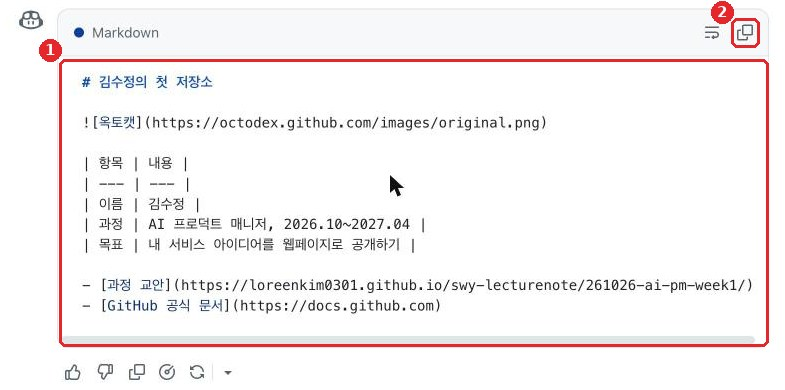
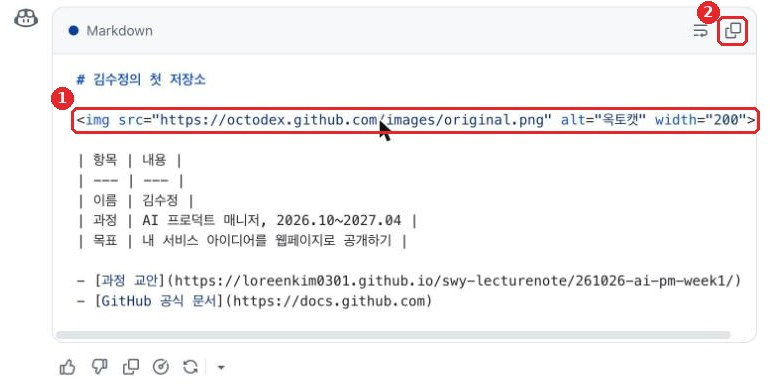
DAY 3 실습 4: 이미지를 img 태그 가로 200px로 넣도록 프롬프트·캡처 교체, 크기 조절 안내 정리
Claude-Session: https://claude.ai/code/session_01ARNeounN5pE9p1UyA8mCLN

Changed region(s): [[0.0, 0.0, 0.9974, 0.9039], [0.0623, 0.9351, 0.3117, 0.9974], [0.4987, 0.4675, 0.5299, 0.4987]]

diff --git a/261026-ai-pm-week1/d3-github-agile.html b/261026-ai-pm-week1/d3-github-agile.html
@@ -614,29 +614,30 @@ aside nav a.active{border-left-color:var(--blue)}
 
 <p><b>실습 4. Copilot으로 README를 이미지·표·링크로 꾸미기</b></p>
 <p>GitHub에는 AI 도우미 <b>GitHub Copilot</b>이 들어 있어요. 오른쪽 위 Copilot 아이콘이나 <a href="https://github.com/copilot" target="_blank" rel="noopener">github.com/copilot</a>에서 채팅으로 쓸 수 있어요. 강사 계정은 무료 요금제인 <b>Copilot Free</b>로 이 실습을 했어요. 처음 쓰는 계정은 시작 안내 화면이 먼저 나올 수 있으니 화면 안내를 따라요.</p>
-<div class="copybox"><div class="copyhead"><span>Copilot 프롬프트 · 복사해서 [ ]만 바꿔 쓰세요</span><button type="button">복사</button></div><pre>내 GitHub 저장소의 README.md를 꾸며 줘. 마크다운으로만 써 줘.
+<div class="copybox"><div class="copyhead"><span>Copilot 프롬프트 · 복사해서 [ ]만 바꿔 쓰세요</span><button type="button">복사</button></div><pre>내 GitHub 저장소의 README.md를 꾸며 줘. 마크다운으로 써 줘.
 ① 맨 위 제목: [내 이름]의 첫 저장소
-② 이미지 1개: https://octodex.github.com/images/original.png (대체 글자: 옥토캣)
+② 이미지 1개: https://octodex.github.com/images/original.png (대체 글자: 옥토캣). 화면에 너무 크게 보이지 않게 &lt;img&gt; 태그로 가로 200px로 넣어 줘.
 ③ 표 1개: 항목·내용 2열로 이름([내 이름]), 과정(AI 프로덕트 매니저, 2026.10~2027.04), 목표([내 목표 한 문장])
 ④ 링크 2개: 과정 교안 https://loreenkim0301.github.io/swy-lecturenote/261026-ai-pm-week1/ , GitHub 공식 문서 https://docs.github.com
 ⑤ 설명 없이 README 전체 내용만 코드 블록 하나로 줘.</pre></div>
 <div class="procedure">
-<div><a href="https://github.com/copilot" target="_blank" rel="noopener">github.com/copilot</a>을 열고, 위 프롬프트를 [ ]만 바꿔 붙여 넣어요. 아래 모드가 <b>[Ask]</b>(질문하기)인지 확인하고 보내요.<figure class="sample-shot"><img alt="Copilot 채팅 입력창에 README 꾸미기 프롬프트를 넣은 화면. 아래 Ask 모드와 보내기 버튼" height="287" loading="lazy" src="./images/d3-cp-prompt.jpg" width="795"/><figcaption>① 프롬프트 입력 ② 모드가 [Ask]인지 확인 ③ 보내기 (2026년 10월 28일 강사 계정, Copilot Free)</figcaption></figure></div>
-<div>Copilot이 마크다운 코드 블록을 답으로 줘요. 오른쪽 위 <b>복사 버튼</b>으로 통째로 복사해요.<figure class="sample-shot"><img alt="Copilot 답변. Markdown 코드 블록에 제목, 이미지, 표, 링크 마크다운" height="390" loading="lazy" src="./images/d3-cp-answer.jpg" width="785"/><figcaption>① Copilot이 만든 README 마크다운 ② 복사 버튼. 프롬프트의 ①~④가 모두 들어 있는지 먼저 눈으로 확인해요 (2026년 10월 28일 강사 계정 실제 답변)</figcaption></figure></div>
-<div>내 저장소의 README.md 편집 화면(연필 버튼)을 열고, 실습 3 내용을 모두 지운 뒤 붙여 넣어요. 그다음 [Preview] 탭을 눌러요.<figure class="sample-shot"><img alt="README 편집 화면에 Copilot 답을 붙여 넣은 상태" height="380" loading="lazy" src="./images/d3-cp-paste.jpg" width="1115"/><figcaption>① 붙여 넣은 마크다운 ② [Preview] 탭 ③ 확인이 끝나면 [Commit changes...] (강사 교안 저장소 예시 화면, 2026년 10월 28일). 강사는 교안 저장소라 커밋하지 않고 미리보기만 했어요</figcaption></figure></div>
-<div>미리보기에서 이미지·표·링크가 모두 보이는지 확인해요.<figure class="sample-shot"><img alt="Preview 탭에서 제목 김수정의 첫 저장소와 옥토캣 이미지가 크게 보이는 화면" height="670" loading="lazy" src="./images/d3-cp-preview1.jpg" width="1115"/><figcaption>미리보기 위쪽: 제목과 이미지(옥토캣). 이미지는 원래 크기대로 크게 나와요 (강사 교안 저장소 예시 화면, 2026년 10월 28일)</figcaption></figure><figure class="sample-shot"><img alt="Preview 아래쪽. 항목 내용 표와 과정 교안, GitHub 공식 문서 링크" height="340" loading="lazy" src="./images/d3-cp-preview2.jpg" width="1115"/><figcaption>미리보기 아래쪽: ① 표 ② 링크 2개. 링크 글자를 눌러 주소가 맞게 열리는지도 확인해요 (강사 교안 저장소 예시 화면, 2026년 10월 28일)</figcaption></figure></div>
+<div><a href="https://github.com/copilot" target="_blank" rel="noopener">github.com/copilot</a>을 열고, 위 프롬프트를 [ ]만 바꿔 붙여 넣어요. 아래 모드가 <b>[Ask]</b>(질문하기)인지 확인하고 보내요.<figure class="sample-shot"><img alt="Copilot 채팅 입력창에 README 꾸미기 프롬프트를 넣은 화면. 이미지를 img 태그 가로 200px로 넣어 달라는 줄 강조, Ask 모드와 보내기 버튼" height="302" loading="lazy" src="./images/d3-cp-prompt.jpg" width="785"/><figcaption>① 이미지 크기를 정해 주는 줄: 정하지 않으면 이미지가 원래 크기(가로 896px)로 크게 나와요 ② 모드가 [Ask]인지 확인 ③ 보내기 (2026년 10월 28일 강사 계정, Copilot Free)</figcaption></figure></div>
+<div>Copilot이 마크다운 코드 블록을 답으로 줘요. 오른쪽 위 <b>복사 버튼</b>으로 통째로 복사해요.<figure class="sample-shot"><img alt="Copilot 답변. Markdown 코드 블록에 제목, img 태그 width 200, 표, 링크" height="385" loading="lazy" src="./images/d3-cp-answer.jpg" width="770"/><figcaption>① Copilot이 이미지를 &lt;img … width="200"&gt; 태그로 넣었어요 ② 복사 버튼. 프롬프트의 ①~④가 모두 들어 있는지 먼저 눈으로 확인해요 (2026년 10월 28일 강사 계정 실제 답변)</figcaption></figure></div>
+<div>내 저장소의 README.md 편집 화면(연필 버튼)을 열고, 실습 3 내용을 모두 지운 뒤 붙여 넣어요. 그다음 [Preview] 탭을 눌러요.<figure class="sample-shot"><img alt="README 편집 화면에 Copilot 답을 붙여 넣은 상태" height="375" loading="lazy" src="./images/d3-cp-paste.jpg" width="1110"/><figcaption>① 붙여 넣은 이미지 줄(width="200") ② [Preview] 탭 ③ 확인이 끝나면 [Commit changes...] (강사 교안 저장소 예시 화면, 2026년 10월 28일). 강사는 교안 저장소라 커밋하지 않고 미리보기만 했어요</figcaption></figure></div>
+<div>미리보기에서 이미지·표·링크가 모두 보이는지 확인해요.<figure class="sample-shot"><img alt="Preview 탭. 제목, 가로 200px 옥토캣 이미지, 항목 내용 표, 링크 2개가 한 화면에 보임" height="690" loading="lazy" src="./images/d3-cp-preview.jpg" width="1110"/><figcaption>미리보기: ① 가로 200px로 줄어든 이미지 ② 표 ③ 링크 2개가 한 화면에 들어와요. 링크 글자를 눌러 주소가 맞게 열리는지도 확인해요 (강사 교안 저장소 예시 화면, 2026년 10월 28일)</figcaption></figure></div>
 <div>커밋 메시지 <code class="inline">README를 Copilot으로 꾸미기: 이미지·표·링크</code>로 <code class="inline">main</code>에 바로 커밋해요. 커밋 창에 Copilot이 영어 메시지를 미리 채워 넣으면 지우고 바꿔 적어요.</div>
 </div>
 <h4>Copilot이 쓴 기호 읽기: 이미지·표·링크</h4>
 <div class="table-wrap"><table>
 <tr><th>쓰는 법</th><th>결과</th></tr>
 <tr><td><code class="inline">![대체 글자](이미지 주소)</code></td><td>이미지. 맨 앞 <b>!</b>가 있으면 이미지, 없으면 링크예요. 대체 글자는 이미지가 안 보일 때 대신 나와요.</td></tr>
+<tr><td><code class="inline">&lt;img src="이미지 주소" alt="대체 글자" width="200"&gt;</code></td><td>크기를 정한 이미지. 마크다운 <code class="inline">![]()</code>로는 크기를 정할 수 없어서, 크기를 정할 때는 이 HTML 태그를 써요. <code class="inline">width="200"</code>은 가로 200px이라는 뜻이에요. 이번 실습에서 Copilot이 쓴 방식이에요.</td></tr>
 <tr><td><code class="inline">[보일 글자](주소)</code></td><td>링크. 대괄호 글자가 화면에 보이고, 누르면 괄호 안 주소로 가요.</td></tr>
 <tr><td><code class="inline">| 항목 | 내용 |</code><br/><code class="inline">| --- | --- |</code><br/><code class="inline">| 이름 | 김수정 |</code></td><td>표. 첫 줄이 제목 칸, 둘째 줄 <code class="inline">---</code>는 "여기까지가 제목"이라는 구분선이에요.</td></tr>
 </table></div>
-<div class="notice"><b>이미지가 너무 크다면</b><br/>마크다운만으로는 크기를 정할 수 없어요. Copilot에게 "이미지를 <code class="inline">&lt;img src="주소" width="200"&gt;</code> 태그로 바꿔서 가로 200px로 줄여 줘"라고 다시 요청해요. GitHub의 README는 이런 간단한 HTML 태그도 보여 줘요. <span class="small">(참고: <a href="https://thelinuxcode.com/how-to-resize-images-in-github-markdown-practical-guide-for-clean-readmes/" target="_blank" rel="noopener">How to Resize Images in GitHub Markdown</a>)</span></div>
+<div class="notice"><b>이미지 크기는 숫자로 조절해요</b><br/>README에서 이미지가 너무 크거나 작으면 <code class="inline">width="200"</code>의 숫자만 바꿔요. 처음에는 150~300 사이에서 바꿔 보고, 숫자를 바꿀 때마다 [Preview]로 다시 확인해요. <span class="small">(GitHub README의 HTML 이미지 태그 참고: <a href="https://thelinuxcode.com/how-to-resize-images-in-github-markdown-practical-guide-for-clean-readmes/" target="_blank" rel="noopener">How to Resize Images in GitHub Markdown</a>)</span></div>
 <div class="warning"><b>AI가 쓴 README도 확인은 사람이 해요.</b> 표의 숫자·기간이 맞는지, 링크 주소가 내가 준 주소 그대로인지 Preview에서 직접 눌러 확인한 뒤 커밋해요.</div>
-<ul class="checklist"><li>저장소 첫 화면에 이미지·표·링크가 모두 보이나요?</li><li>링크 두 개를 눌러 맞는 페이지가 열렸나요?</li><li>커밋 목록에 실습 3과 실습 4 커밋이 따로 쌓였나요?</li></ul>
+<ul class="checklist"><li>저장소 첫 화면에 이미지·표·링크가 모두 보이고, 이미지가 화면을 가득 채우지 않나요?</li><li>링크 두 개를 눌러 맞는 페이지가 열렸나요?</li><li>커밋 목록에 실습 3과 실습 4 커밋이 따로 쌓였나요?</li></ul>
 
 <p><b>실습 5. 올라간 파일의 이름 바꾸기</b></p>
 <p>연습용 파일을 하나 만들고 이름을 바꿔 봐요. <code class="inline">sale.html</code>은 뒤의 실습에서 계속 쓰니 건드리지 않아요.</p>
